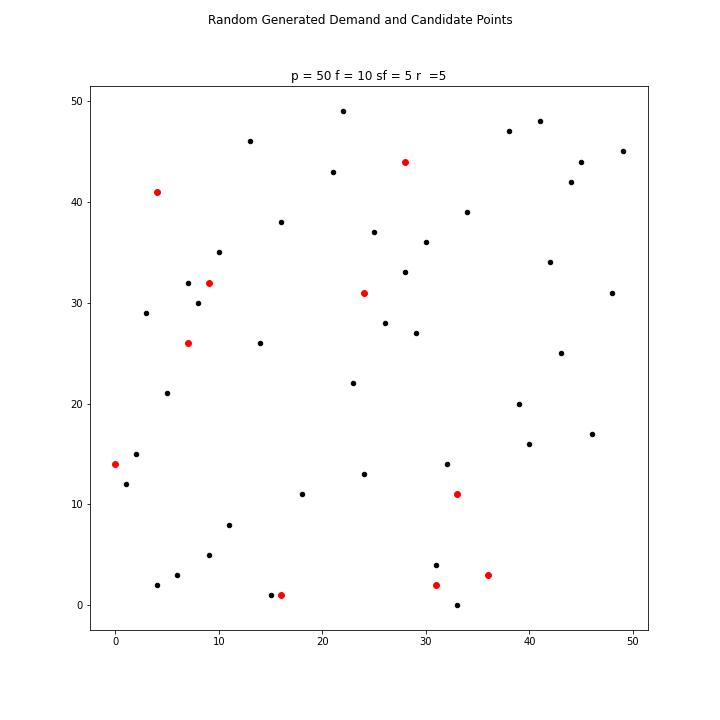
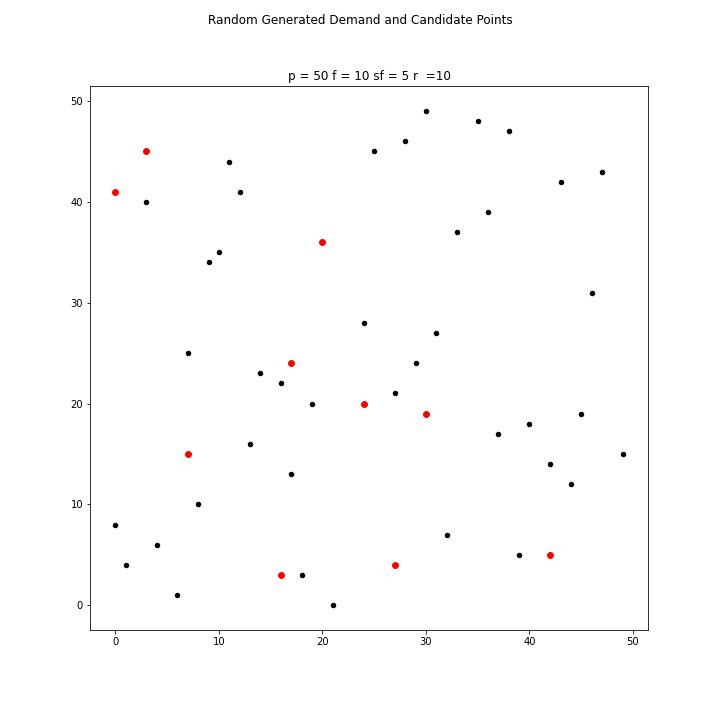
No jala

diff --git a/test2.py b/test2.py
@@ -1,8 +1,8 @@
 # Selected sites: [[8, 47], [24, 21], [19, 27], [3, 17], [6, 30]]
 # Non selected sites [[48, 13], [15, 29], [0, 3], [21, 24], [5, 19]]
 # Covered points: [[9, 43], [5, 49], [25, 23], [23, 29], [2, 19], [4, 31]]
-# Non covered points: [[21, 16], [43, 25], [12, 11], [3, 36], [0, 42], [18, 3], [19, 47], [16, 18], [47, 27], [30, 15], 
-# [24, 10], [34, 13], [31, 0], [37, 45], [42, 6], [14, 24], [10, 2], [27, 28], [29, 14], [13, 40], [11, 32], [20, 9], [7, 12], 
+# Non covered points: [[21, 16], [43, 25], [12, 11], [3, 36], [0, 42], [18, 3], [19, 47], [16, 18], [47, 27], [30, 15],
+# [24, 10], [34, 13], [31, 0], [37, 45], [42, 6], [14, 24], [10, 2], [27, 28], [29, 14], [13, 40], [11, 32], [20, 9], [7, 12],
 # [45, 48], [17, 39], [22, 8], [36, 7], [6, 41], [39, 34], [41, 26], [28, 4], [33, 21], [1, 37], [32, 20]]
 # Objective function: 6
 
@@ -13,49 +13,44 @@ from operator import itemgetter
 from numpy.random import default_rng
 
 
-demand_points = [[26, 40], [22, 43], [37, 13], [20, 41], [7, 15], [14, 23], 
-[49, 8], [34, 29], [1, 33], [4, 7], [28, 17], [11, 36], [19, 30], [31, 39], [9, 34], 
-[0, 14], [8, 42], [40, 1], [30, 25], [44, 19], [41, 38], [3, 46], [12, 32], [38, 16], 
-[39, 26], [42, 45], [23, 4], [45, 5], [18, 44], [6, 37], [16, 10], [35, 20], [32, 0], 
-[46, 11], [36, 27], [33, 21], [48, 49], [25, 9], [15, 35], [10, 47]]
+demand_points = [[27, 21], [29, 24], [19, 20], [31, 27], [16, 22], [24, 28], [37, 17], [21, 0], [18, 3], [12, 41], [11, 44], [3, 40], [32, 7], [38, 47], [39, 5], [25, 45], [33, 37], [13, 16], [0, 8], [
+    1, 4], [8, 10], [36, 39], [44, 12], [30, 49], [6, 1], [9, 34], [10, 35], [46, 31], [43, 42], [42, 14], [4, 6], [45, 19], [40, 18], [7, 25], [35, 48], [14, 23], [28, 46], [17, 13], [47, 43], [49, 15]]
 
-candidate_sites = [[25, 40], [40, 10], [22, 41], [11, 15], [10, 21], [32, 44], [15, 16], [46, 37], [2, 33], [13, 48]]
+candidate_sites = [[24, 20], [30, 19], [16, 3], [3, 45], [
+    27, 4], [20, 36], [7, 15], [42, 5], [17, 24], [0, 41]]
 
 non_covered_points = list(demand_points)
 covered_points = []
 
-selected_sites = [[25, 40], [40, 10], [22, 41], [11, 15], [10, 21]]
-non_selected_sites = [[32, 44], [15, 16], [46, 37], [2, 33], [13, 48]]
-new_selected_sites = []
-individual_covered = [[[25, 40], 2], [[40, 10], 1], [[22, 41], 1], [[11, 15], 1], [[10, 21], 1]]
-prev_objective_function = 6
+selected_sites = []
+non_selected_sites = list(candidate_sites)
+new_individual_covered = []
+individual_covered = [[[24, 20], 6], [[30, 19], 1],
+                      [[16, 3], 2], [[3, 45], 3], [[27, 4], 1]]
+prev_objective_function = 13
 sf = 5
-r = 5
+r = 10
 new_of = 0
 completed = True
 
-title = "p = " + str(50) + " f = " + str(10) + " sf = " + str(sf) + " r  =" + str(r)
+title = "p = " + str(50) + " f = " + str(10) + \
+    " sf = " + str(sf) + " r  =" + str(r)
 
-for x in range(sf):
-    for selected in individual_covered:
-        if len(new_selected_sites)>=sf:
-            completed = False
+S = len(new_individual_covered)
+cs = len(candidate_sites)
+
+while S < cs:
+    for site in candidate_sites:
         count = 0
-        for no_selected in non_selected_sites:
-            for point in non_covered_points:
-                d = sqrt((point[0] - no_selected[0]) ** 2 + (no_selected[1] - point[1]) ** 2)
-                if d <= r and completed:
-                    covered_points.append(point)
-                    non_covered_points.remove(point)
-                    count += 1
-            if count > selected[1] and completed:
-                non_selected_sites.append(selected[0])
-                selected_sites.remove(selected[0])
-                selected_sites.append(no_selected)
-                new_selected_sites.append(no_selected)
-                non_selected_sites.remove(no_selected)
-                new_of += count
-                break
+        for point in demand_points:
+            d = sqrt((point[0] - site[0]) ** 2 + (site[1] - point[1]) ** 2)
+            if d <= r:
+                count += 1
+                non_selected_sites.remove(point)
+                selected_sites.append(point)
+        new_individual_covered.append([site, count])
+        break
+
 
 
 print("Selected sites:", selected_sites)
@@ -64,4 +59,4 @@ print("Covered points:", covered_points)
 print("Non covered points:", non_covered_points)
 print("Objective function:", new_of)
 print("Number of points covered by every site:", individual_covered)
-print("New SELECTED SITES:", new_selected_sites)
+print("New SELECTED SITES:", new_individual_covered)
